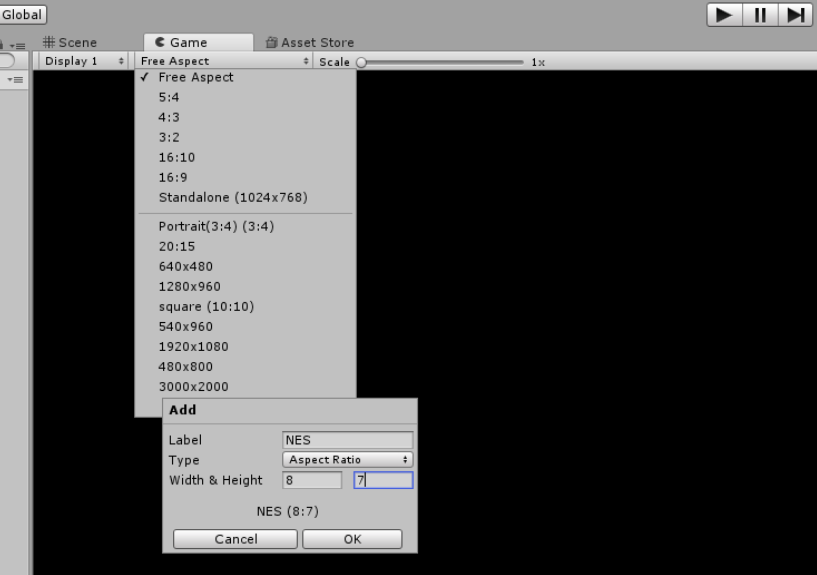
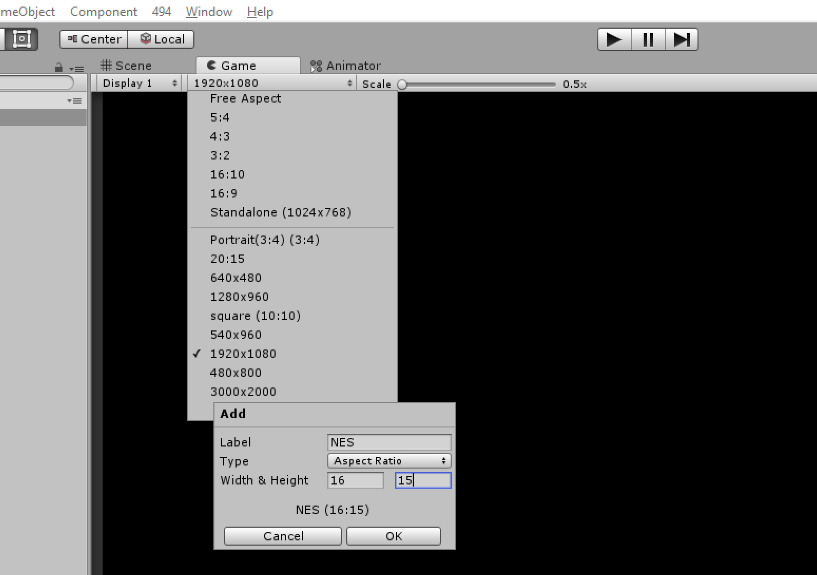
02 cleanup

diff --git a/02-SceneSetup.md b/02-SceneSetup.md
@@ -32,7 +32,7 @@ Ensure the **Projection** is **Orthographic**
 Set the **Size** to **7.5**
 
 {% include start-expand.html title="Why this size?" %} 
-<p>The size corresponds to half the vertical view. Since Metroid shows 14 tiles vertically, we want 14/2=7 as our size.</p>
+<p>The size corresponds to half the vertical view. Since Metroid shows 15 tiles vertically, we want 15/2=7.5 as our size.</p>
 {% include end-expand.html %}
 
 Set the **Position** to **(39.5, 22, -10)**
@@ -53,7 +53,7 @@ Set the Label as **NES**.
 
 Set the type as **Aspect Ratio**
 
-And set the **Width & Height** to **8 & 7**
+And set the **Width & Height** to **16 & 15**
 
 ![NES](./02/NES.PNG)
 
